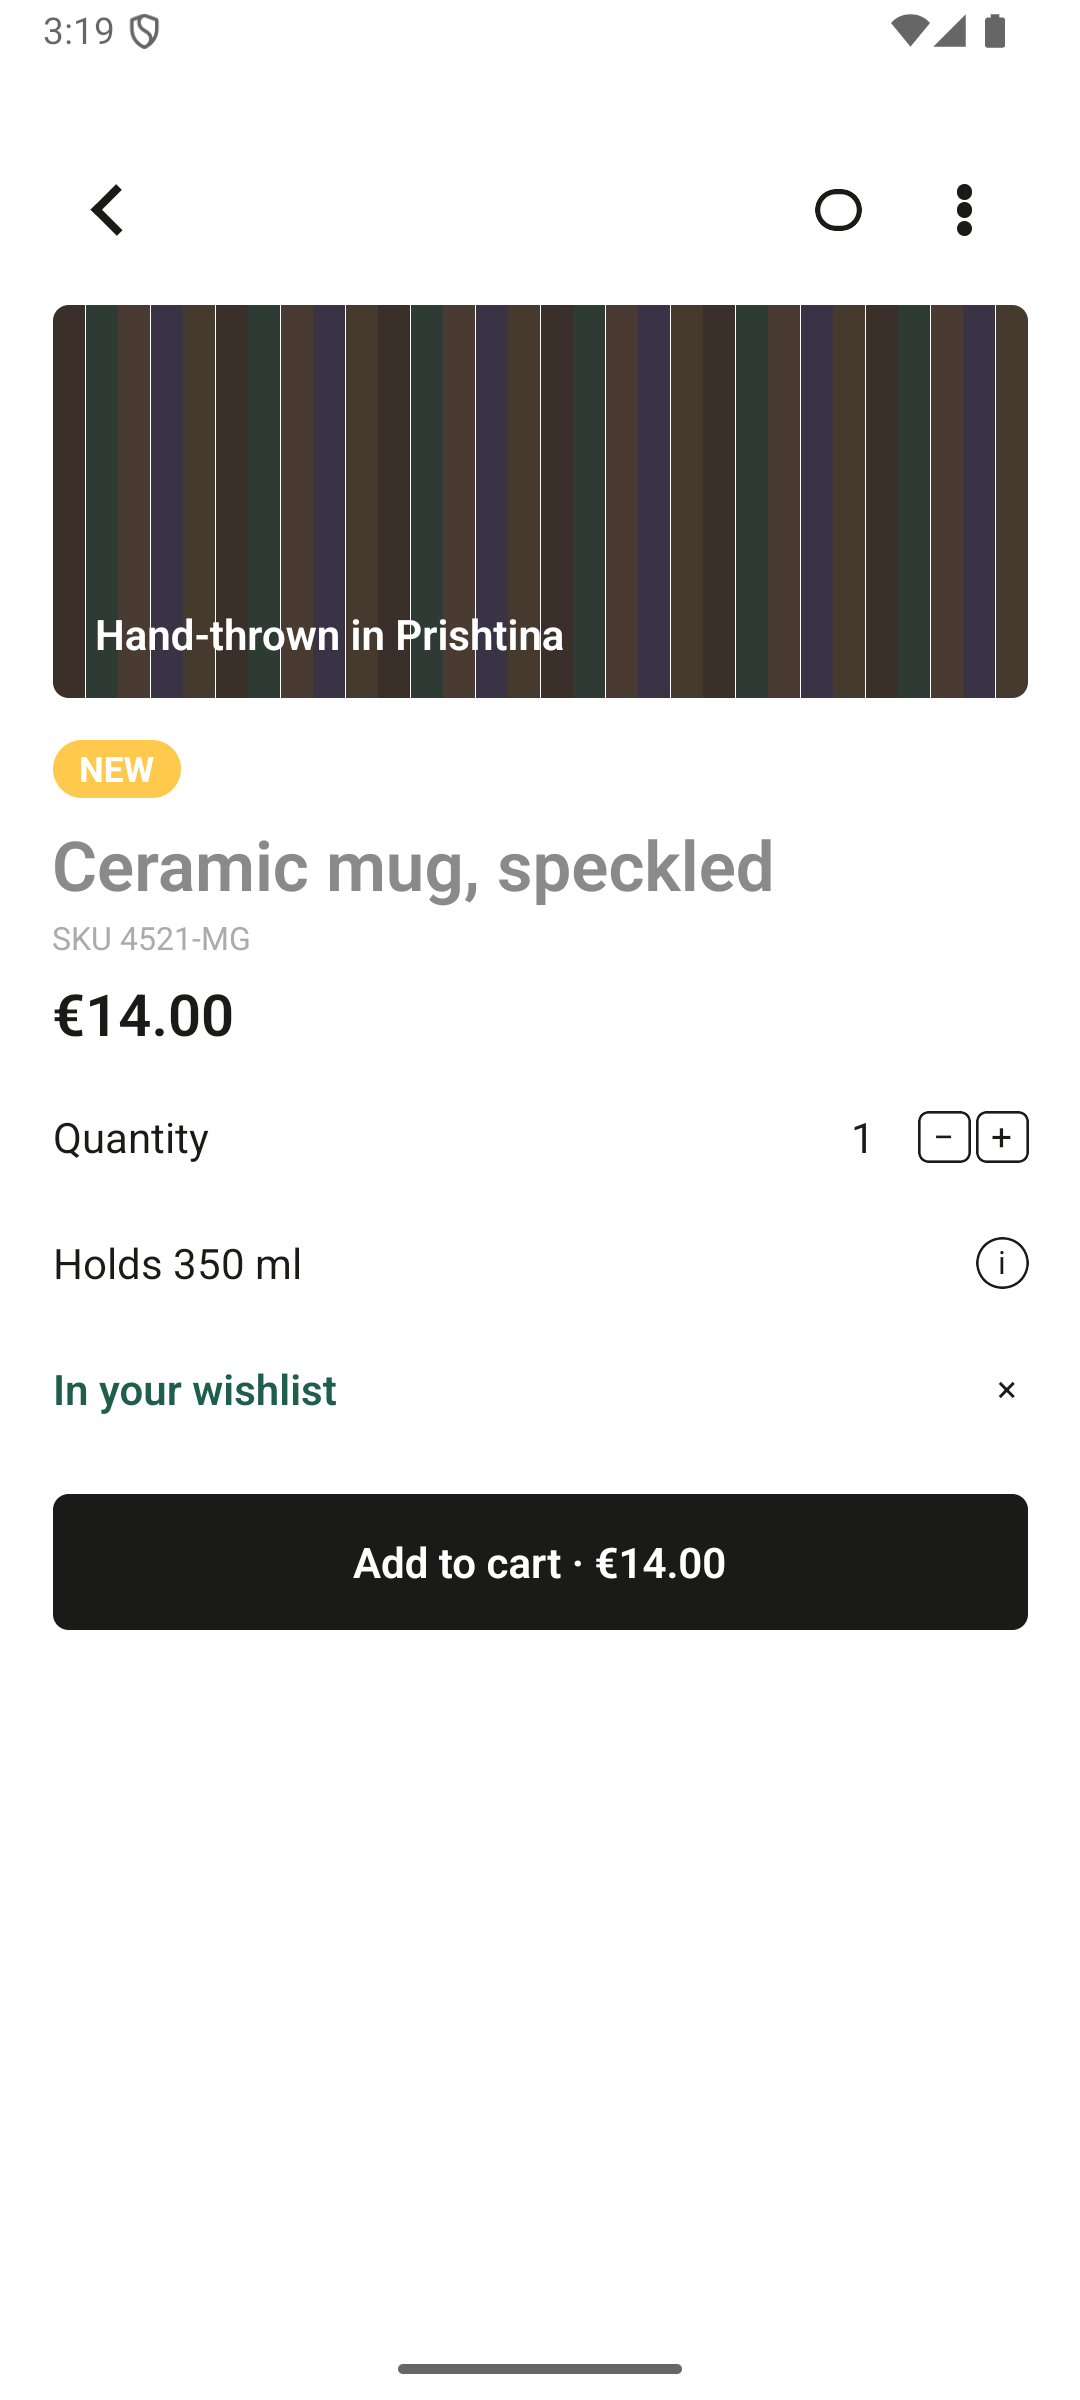
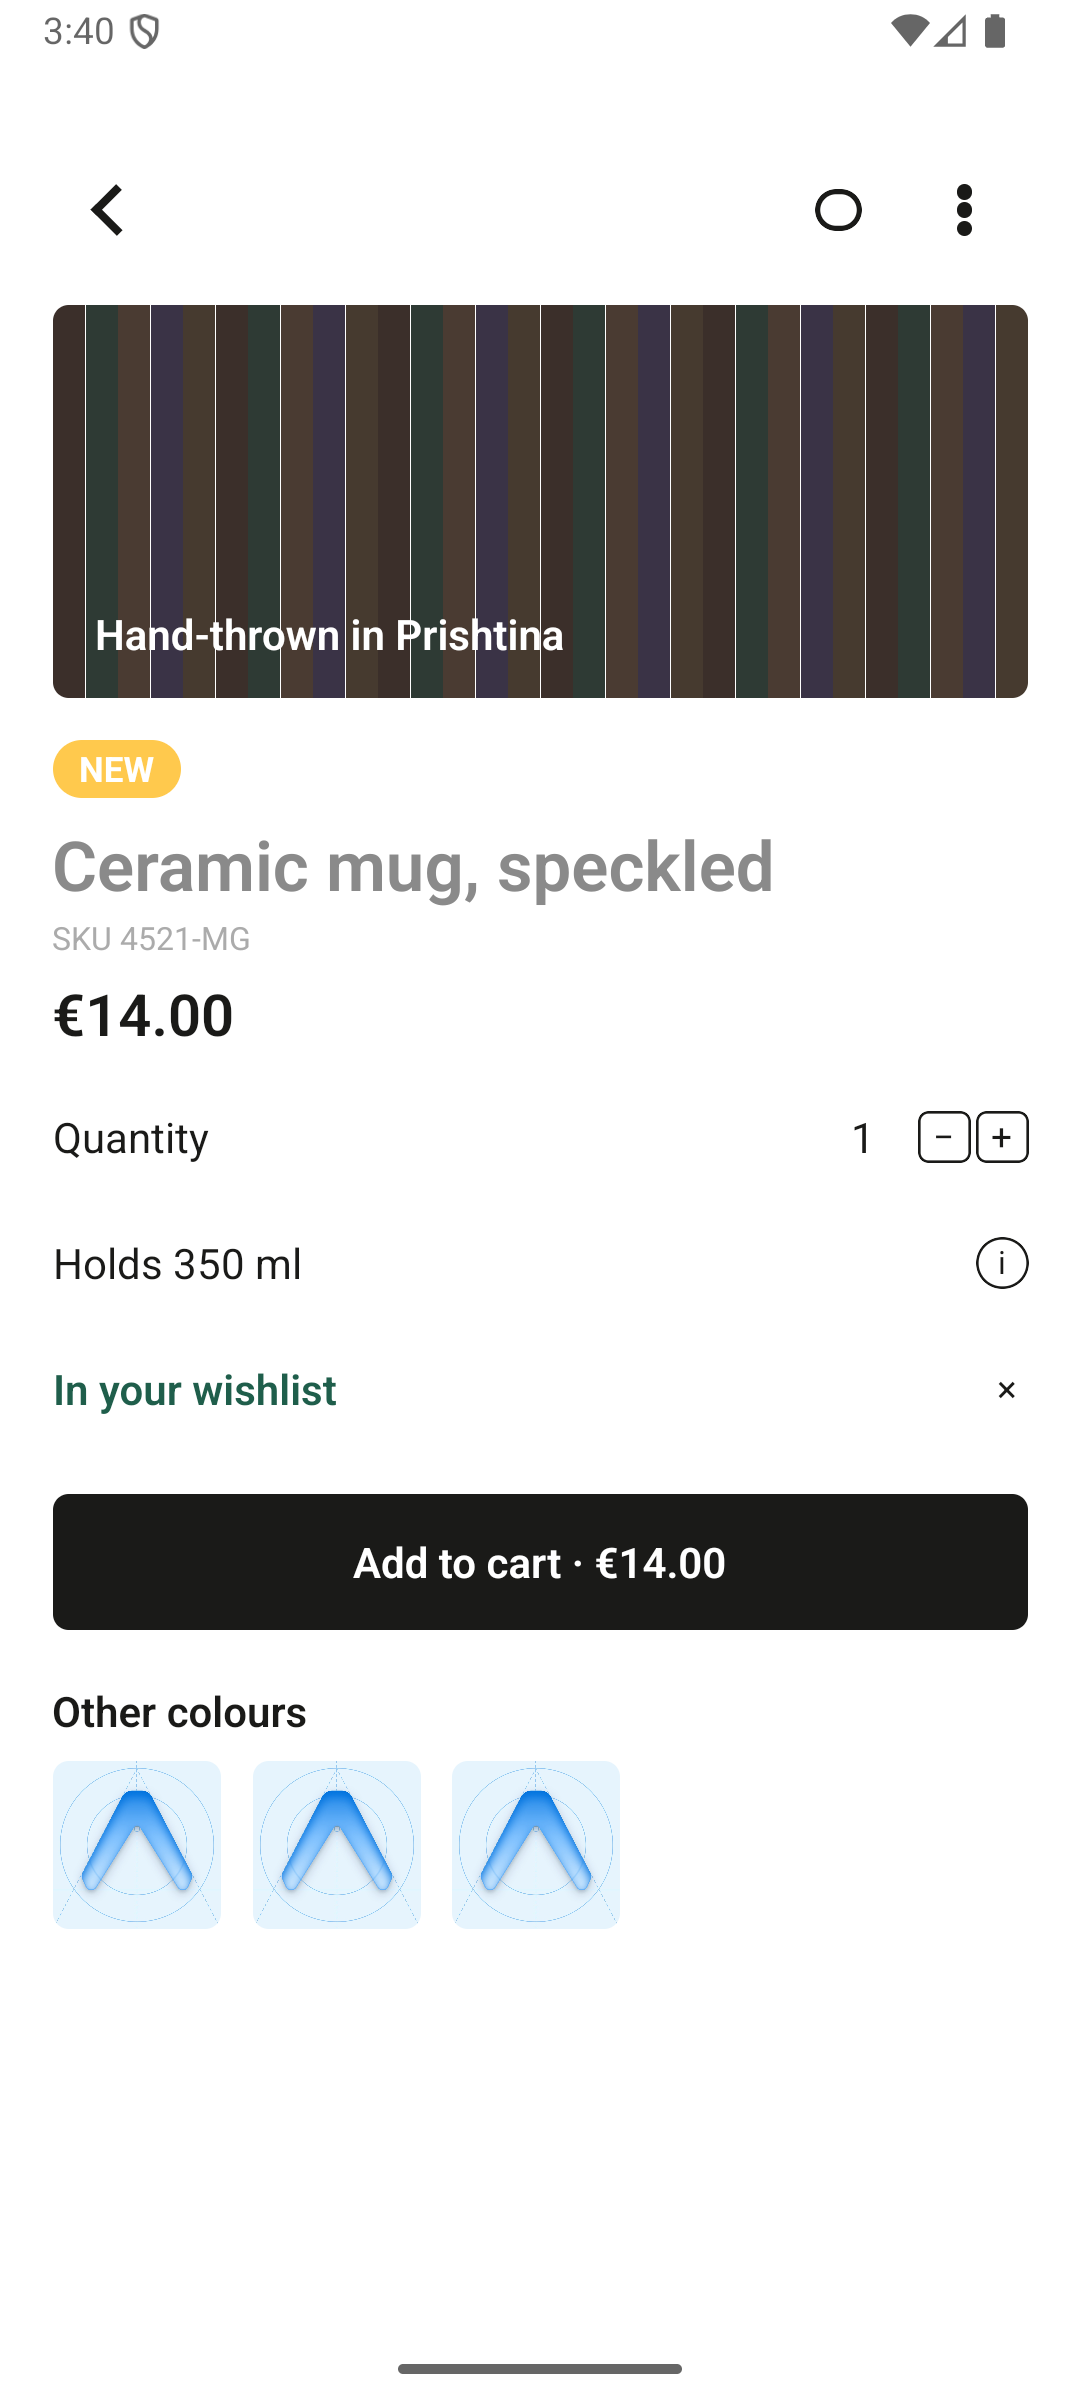
feat(core): name/image-missing for images a screen reader stops on but cannot name
Reports a non-interactive image that gets its own screen-reader focus
stop but has no name: TalkBack says only "Image". An unnamed image that
TalkBack skips may be decorative, and judging that would be a guess, so
it is left alone; interactive images stay with name/interactive-missing.

PamNode gains focusable (its own focus stop); result schema 0.5.0. The
rn-shop product screen gains colour thumbnails: an unnamed accessible
image, a named one, and a decorative one TalkBack skips.

Bench: TP 1, FP 0, FN 0, TN 2.

Changed region(s): [[0.0306, 0.6875, 0.5806, 0.8125], [0.0611, 0.0, 0.0917, 0.0312]]

diff --git a/fixtures/rn-shop/src/screens/ProductScreen.tsx b/fixtures/rn-shop/src/screens/ProductScreen.tsx
@@ -1,7 +1,8 @@
-import { Pressable, StyleSheet, Text, View } from 'react-native';
+import { Image, Pressable, StyleSheet, Text, View } from 'react-native';
 import { BackIcon, HeartIcon, ShareIcon } from '../components/icons';
 
 const noop = () => {};
+const THUMBNAIL = require('../../assets/icon.png') as number;
 // Dark stripes stand in for a photo: a busy background on which the white caption stays readable.
 const PHOTO_STRIPES = ['#3B2F2A', '#2E3A34', '#4A3B32', '#3A3346', '#463A2F'];
 
@@ -113,11 +114,30 @@ export function ProductScreen() {
       <Pressable testID="twin-text-button" accessibilityRole="button" onPress={noop} style={styles.primary}>
         <Text style={styles.primaryText}>Add to cart · €14.00</Text>
       </Pressable>
+
+      <Text style={styles.colorsTitle}>Other colours</Text>
+      <View style={styles.colors}>
+        {/* Seeded barrier: TalkBack stops on this image but can only say "Image" (WCAG 1.1.1). */}
+        <Image testID="seed-unnamed-image" accessible accessibilityRole="image" source={THUMBNAIL} style={styles.thumb} />
+        <Image
+          testID="twin-named-image"
+          accessible
+          accessibilityRole="image"
+          accessibilityLabel="Mug in sage green"
+          source={THUMBNAIL}
+          style={styles.thumb}
+        />
+        {/* Twin: not a focus stop, so TalkBack skips it, as it should a decorative image. */}
+        <Image testID="twin-decorative-image" source={THUMBNAIL} style={styles.thumb} />
+      </View>
     </View>
   );
 }
 
 const styles = StyleSheet.create({
+  colorsTitle: { fontSize: 16, fontWeight: '600', color: '#1A1A18', marginTop: 20 },
+  colors: { flexDirection: 'row', marginTop: 8 },
+  thumb: { width: 64, height: 64, borderRadius: 6, marginRight: 12 },
   screen: { flex: 1, backgroundColor: '#FFFFFF', paddingTop: 56, paddingHorizontal: 20 },
   toolbar: { flexDirection: 'row', justifyContent: 'space-between', marginBottom: 12 },
   toolbarEnd: { flexDirection: 'row' },

diff --git a/packages/core/src/rules/image-missing-name.ts b/packages/core/src/rules/image-missing-name.ts
@@ -1,0 +1,44 @@
+import { inScope } from './scope.js';
+import type { Rule } from './types.js';
+
+// Only images that TalkBack stops on: an unnamed image it skips may be decorative, and
+// telling decoration from content is a guess. Interactive images belong to
+// name/interactive-missing.
+export const imageMissingName: Rule = {
+  meta: {
+    id: 'name/image-missing',
+    title: 'Image has no accessible name',
+    severity: 'error',
+    confidence: 'high',
+    wcag: ['1.1.1'],
+    en301549: ['11.1.1.1'],
+    whoIsAffected: 'People who use a screen reader (TalkBack, VoiceOver).',
+    whatTheyExperience:
+      'The screen reader stops on the image and says only "Image", so they miss what it shows and wonder what they skipped.',
+    fix: {
+      reactNative:
+        'Describe what it shows with accessibilityLabel="Mug in sage green", or remove accessible if the image is decorative so TalkBack skips it.',
+      compose:
+        'Pass contentDescription = "Mug in sage green" to Image, or contentDescription = null if it is decorative.',
+      androidViews: 'Set android:contentDescription, or android:importantForAccessibility="no" on a decorative image.',
+    },
+  },
+  check({ screen }) {
+    return screen.nodes
+      .filter(
+        (node) =>
+          node.role === 'image' &&
+          node.focusable &&
+          !node.interactive &&
+          node.name === null &&
+          inScope(node) &&
+          node.exposedToAssistiveTech,
+      )
+      .map((node) => ({
+        node,
+        message:
+          'A screen reader stops on this image but can only announce "Image". Describe what it shows, or let the screen reader skip it if it is decorative.',
+        evidence: { role: node.role, platformRole: node.platformRole },
+      }));
+  },
+};

diff --git a/packages/core/test/rules.test.ts b/packages/core/test/rules.test.ts
@@ -1,5 +1,6 @@
 import { describe, expect, it } from 'vitest';
 import {
+  imageMissingName,
   inputMissingLabel,
   interactiveMissingName,
   requiredTextRatio,
@@ -87,6 +88,41 @@ describe('input/missing-label', () => {
         field({ id: '1', exposedToAssistiveTech: false }),
         field({ id: '2', visible: false }),
         field({ id: '3', inWebView: true }),
+      ]),
+    ).toEqual([]);
+  });
+});
+
+describe('name/image-missing', () => {
+  const check = (nodes: Parameters<typeof screenOf>[0]) =>
+    imageMissingName.check({ screen: screenOf(nodes), device, raster: null });
+  const image = (overrides: Partial<Parameters<typeof pamNode>[0]> = {}) =>
+    pamNode({
+      id: '0',
+      role: 'image',
+      platformRole: 'android.widget.ImageView',
+      name: null,
+      interactive: false,
+      ...overrides,
+    });
+
+  it('flags an image the screen reader stops on but cannot name', () => {
+    const findings = check([image()]);
+    expect(findings).toHaveLength(1);
+    expect(findings[0]?.message).toBe(
+      'A screen reader stops on this image but can only announce "Image". Describe what it shows, or let the screen reader skip it if it is decorative.',
+    );
+    expect(findings[0]?.evidence).toEqual({ role: 'image', platformRole: 'android.widget.ImageView' });
+  });
+
+  it('leaves named, skipped (decorative), interactive, hidden and off-screen images alone', () => {
+    expect(
+      check([
+        image({ id: '0', name: 'Mug in sage green' }),
+        image({ id: '1', focusable: false }),
+        image({ id: '2', interactive: true }),
+        image({ id: '3', exposedToAssistiveTech: false }),
+        image({ id: '4', visible: false }),
       ]),
     ).toEqual([]);
   });

diff --git a/packages/core/src/rules/index.ts b/packages/core/src/rules/index.ts
@@ -1,3 +1,4 @@
+import { imageMissingName } from './image-missing-name.js';
 import { inputMissingLabel } from './input-missing-label.js';
 import { interactiveMissingName } from './interactive-missing-name.js';
 import { stateNotExposed } from './state-not-exposed.js';
@@ -5,7 +6,7 @@ import { targetSize } from './target-size.js';
 import { textContrast } from './text-contrast.js';
 import type { Rule } from './types.js';
 
-export { inputMissingLabel, interactiveMissingName, stateNotExposed, targetSize, textContrast };
+export { imageMissingName, inputMissingLabel, interactiveMissingName, stateNotExposed, targetSize, textContrast };
 export { requiredTextRatio } from './text-contrast.js';
 export { inScope } from './scope.js';
 export type { Finding, Rule, RuleContext, RuleMeta } from './types.js';
@@ -13,6 +14,7 @@ export type { Finding, Rule, RuleContext, RuleMeta } from './types.js';
 /** The rules a scan runs when the config does not choose. */
 export const defaultRules: readonly Rule[] = [
   interactiveMissingName,
+  imageMissingName,
   inputMissingLabel,
   stateNotExposed,
   textContrast,

diff --git a/packages/core/src/model.ts b/packages/core/src/model.ts
@@ -5,9 +5,9 @@
 /**
  * Version of the JSON result contract written to pragu-result.json.
  * 0.2.0 added windows; 0.3.0 added `PamNode.boundsAreTouchArea`; 0.4.0 added
- * `PamNode.checked` and `stateDescription`.
+ * `PamNode.checked` and `stateDescription`; 0.5.0 added `PamNode.focusable`.
  */
-export const RESULT_SCHEMA_VERSION = '0.4.0';
+export const RESULT_SCHEMA_VERSION = '0.5.0';
 
 export type Platform = 'android' | 'ios';
 export type Severity = 'error' | 'warning' | 'info';
@@ -61,6 +61,8 @@ export interface PamNode {
   boundsAreTouchArea: boolean;
   /** Responds to activation: tap, long press, toggle or text entry. */
   interactive: boolean;
+  /** A screen reader gives it a focus stop of its own, even when it has nothing to say. */
+  focusable: boolean;
   /** False when the app hides the element from assistive technology. */
   exposedToAssistiveTech: boolean;
   /** On screen, in the app's topmost window, and not covered by another window. */

diff --git a/packages/core/test/android.test.ts b/packages/core/test/android.test.ts
@@ -160,6 +160,15 @@ describe('normalizeAndroidCapture', () => {
     expect(screen.nodes[2]).toMatchObject({ role: 'text', interactive: false, name: 'Free shipping' });
   });
 
+  it('records whether a screen reader gives a node its own focus stop', () => {
+    const focusable = (raw: AndroidRawNode) =>
+      normalizeAndroidCapture(captureOf(raw), { screenId: 's', screenName: 's', screenshotFile: null }).screen.nodes[0]
+        ?.focusable;
+    expect(focusable(rawNode({ focusable: true }))).toBe(true);
+    expect(focusable(rawNode({ screenReaderFocusable: true }))).toBe(true);
+    expect(focusable(rawNode({ className: 'android.widget.ImageView' }))).toBe(false);
+  });
+
   it('exposes a checked state only for checkable nodes, and keeps the state text', () => {
     const normalize = (raw: AndroidRawNode) =>
       normalizeAndroidCapture(captureOf(raw), { screenId: 's', screenName: 's', screenshotFile: null }).screen.nodes[0];

diff --git a/packages/cli/test/cli.test.ts b/packages/cli/test/cli.test.ts
@@ -134,7 +134,7 @@ describe('scan --from-capture (whole pipeline, no device)', () => {
 
     expect(code).toBe(1);
     const result = JSON.parse(await readFile(join(out, 'pragu-result.json'), 'utf8')) as ScanResult;
-    expect(result.schemaVersion).toBe('0.4.0');
+    expect(result.schemaVersion).toBe('0.5.0');
     expect(result.issues.map((issue) => [issue.ruleId, issue.resourceId])).toEqual([
       ['target/size', 'seed-tiny-dismiss'],
       ['name/interactive-missing', 'seed-unlabeled-remove'],

diff --git a/packages/core/src/android.ts b/packages/core/src/android.ts
@@ -327,6 +327,7 @@ export function normalizeAndroidCapture(
       // Compose reports a clickable's touch area (enlarged to 48 dp) as its bounds.
       boundsAreTouchArea: context.inCompose && interactive,
       interactive,
+      focusable: isActionable(raw),
       exposedToAssistiveTech: raw.importantForAccessibility,
       visible: onScreen && !covered,
       obscured: !covered && coverers.some((cover) => rectsOverlap(cover, boundsPx)),

diff --git a/packages/report/test/__snapshots__/report.html b/packages/report/test/__snapshots__/report.html
@@ -155,7 +155,7 @@ h3 { font-size: 16px; line-height: 1.4; margin: 0; display: flex; gap: 12px; ali
 </section>
 </main>
 <footer class="footer">
-  <p>Pragu 0.0.0 · result schema 0.4.0 · Generated on this machine; nothing was uploaded.</p>
+  <p>Pragu 0.0.0 · result schema 0.5.0 · Generated on this machine; nothing was uploaded.</p>
 </footer>
 <script>(function () {
   var root = document.documentElement;

diff --git a/packages/core/test/helpers.ts b/packages/core/test/helpers.ts
@@ -111,6 +111,7 @@ export function pamNode(overrides: Partial<PamNode> & { id: string }): PamNode {
     boundsDp,
     boundsAreTouchArea: false,
     interactive: true,
+    focusable: true,
     exposedToAssistiveTech: true,
     visible: true,
     obscured: false,

diff --git a/packages/core/test/engine.test.ts b/packages/core/test/engine.test.ts
@@ -139,6 +139,7 @@ describe('summarize', () => {
       infos: 0,
       rulesRun: [
         'name/interactive-missing',
+        'name/image-missing',
         'input/missing-label',
         'state/not-exposed',
         'contrast/text',

diff --git a/packages/core/src/index.ts b/packages/core/src/index.ts
@@ -21,6 +21,7 @@ export type { AnalyzeInput } from './engine.js';
 export { fnv1a64, issueFingerprint } from './fingerprint.js';
 export {
   defaultRules,
+  imageMissingName,
   inScope,
   inputMissingLabel,
   interactiveMissingName,
